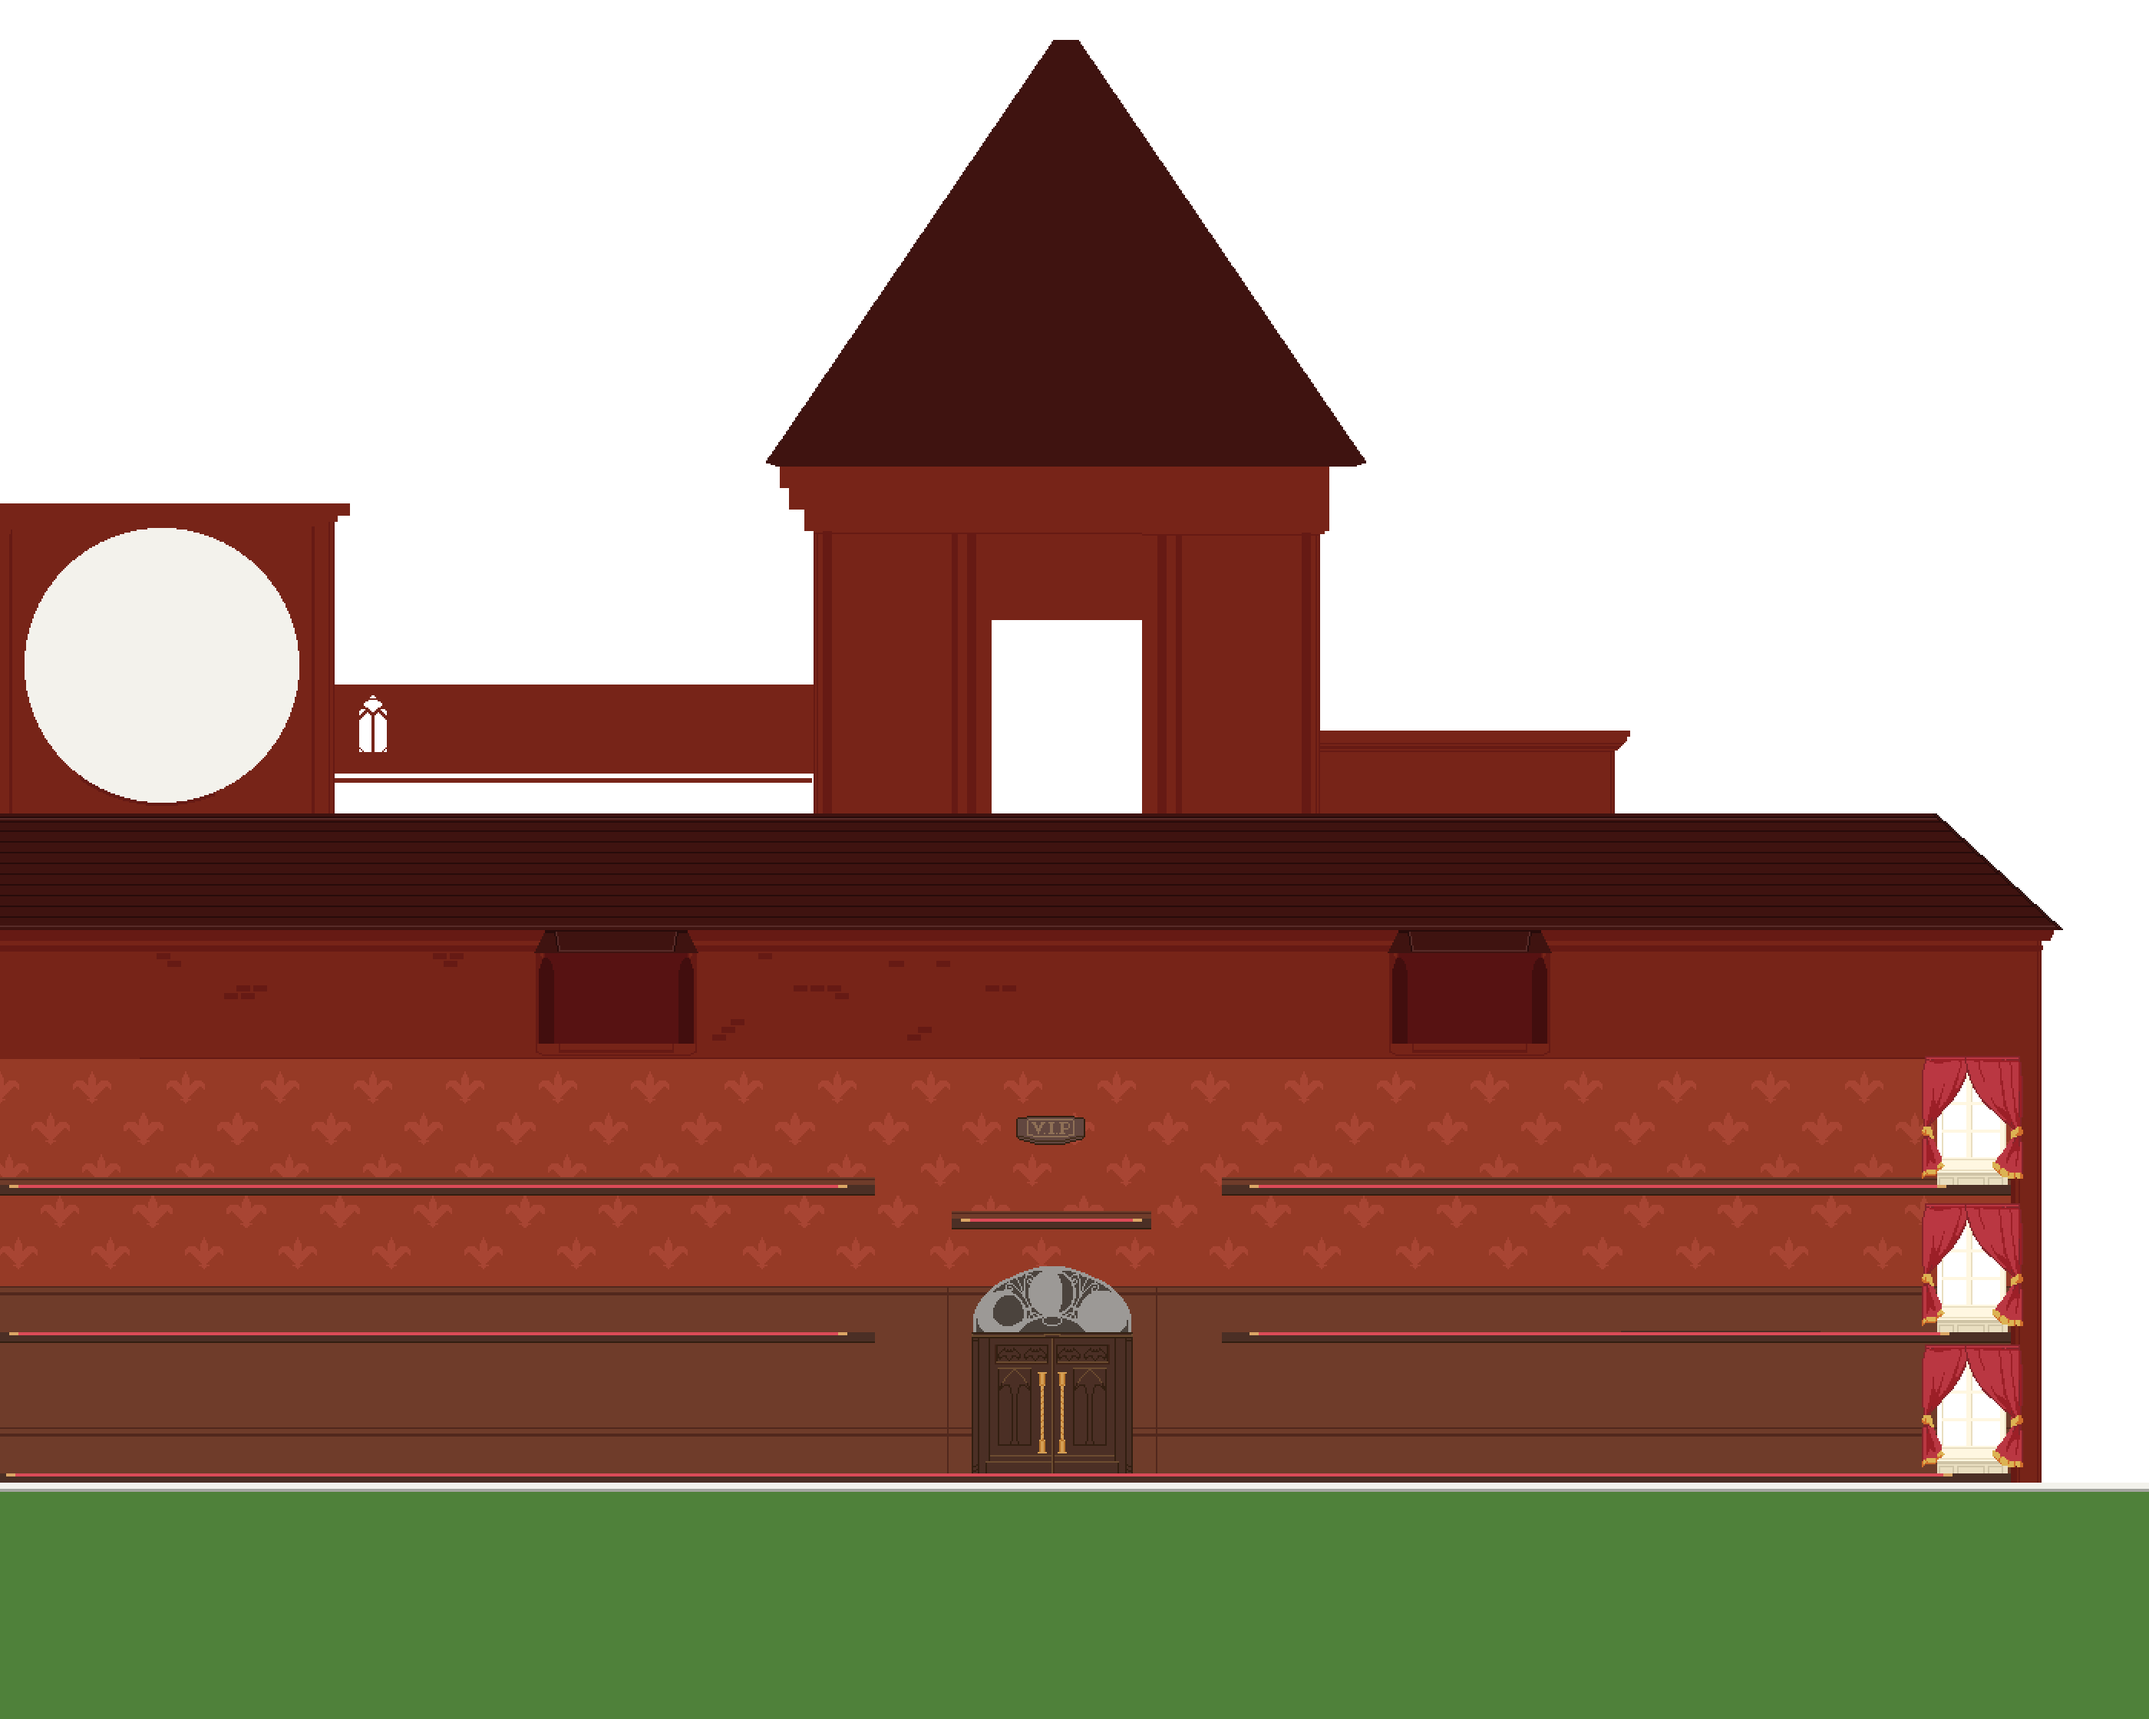
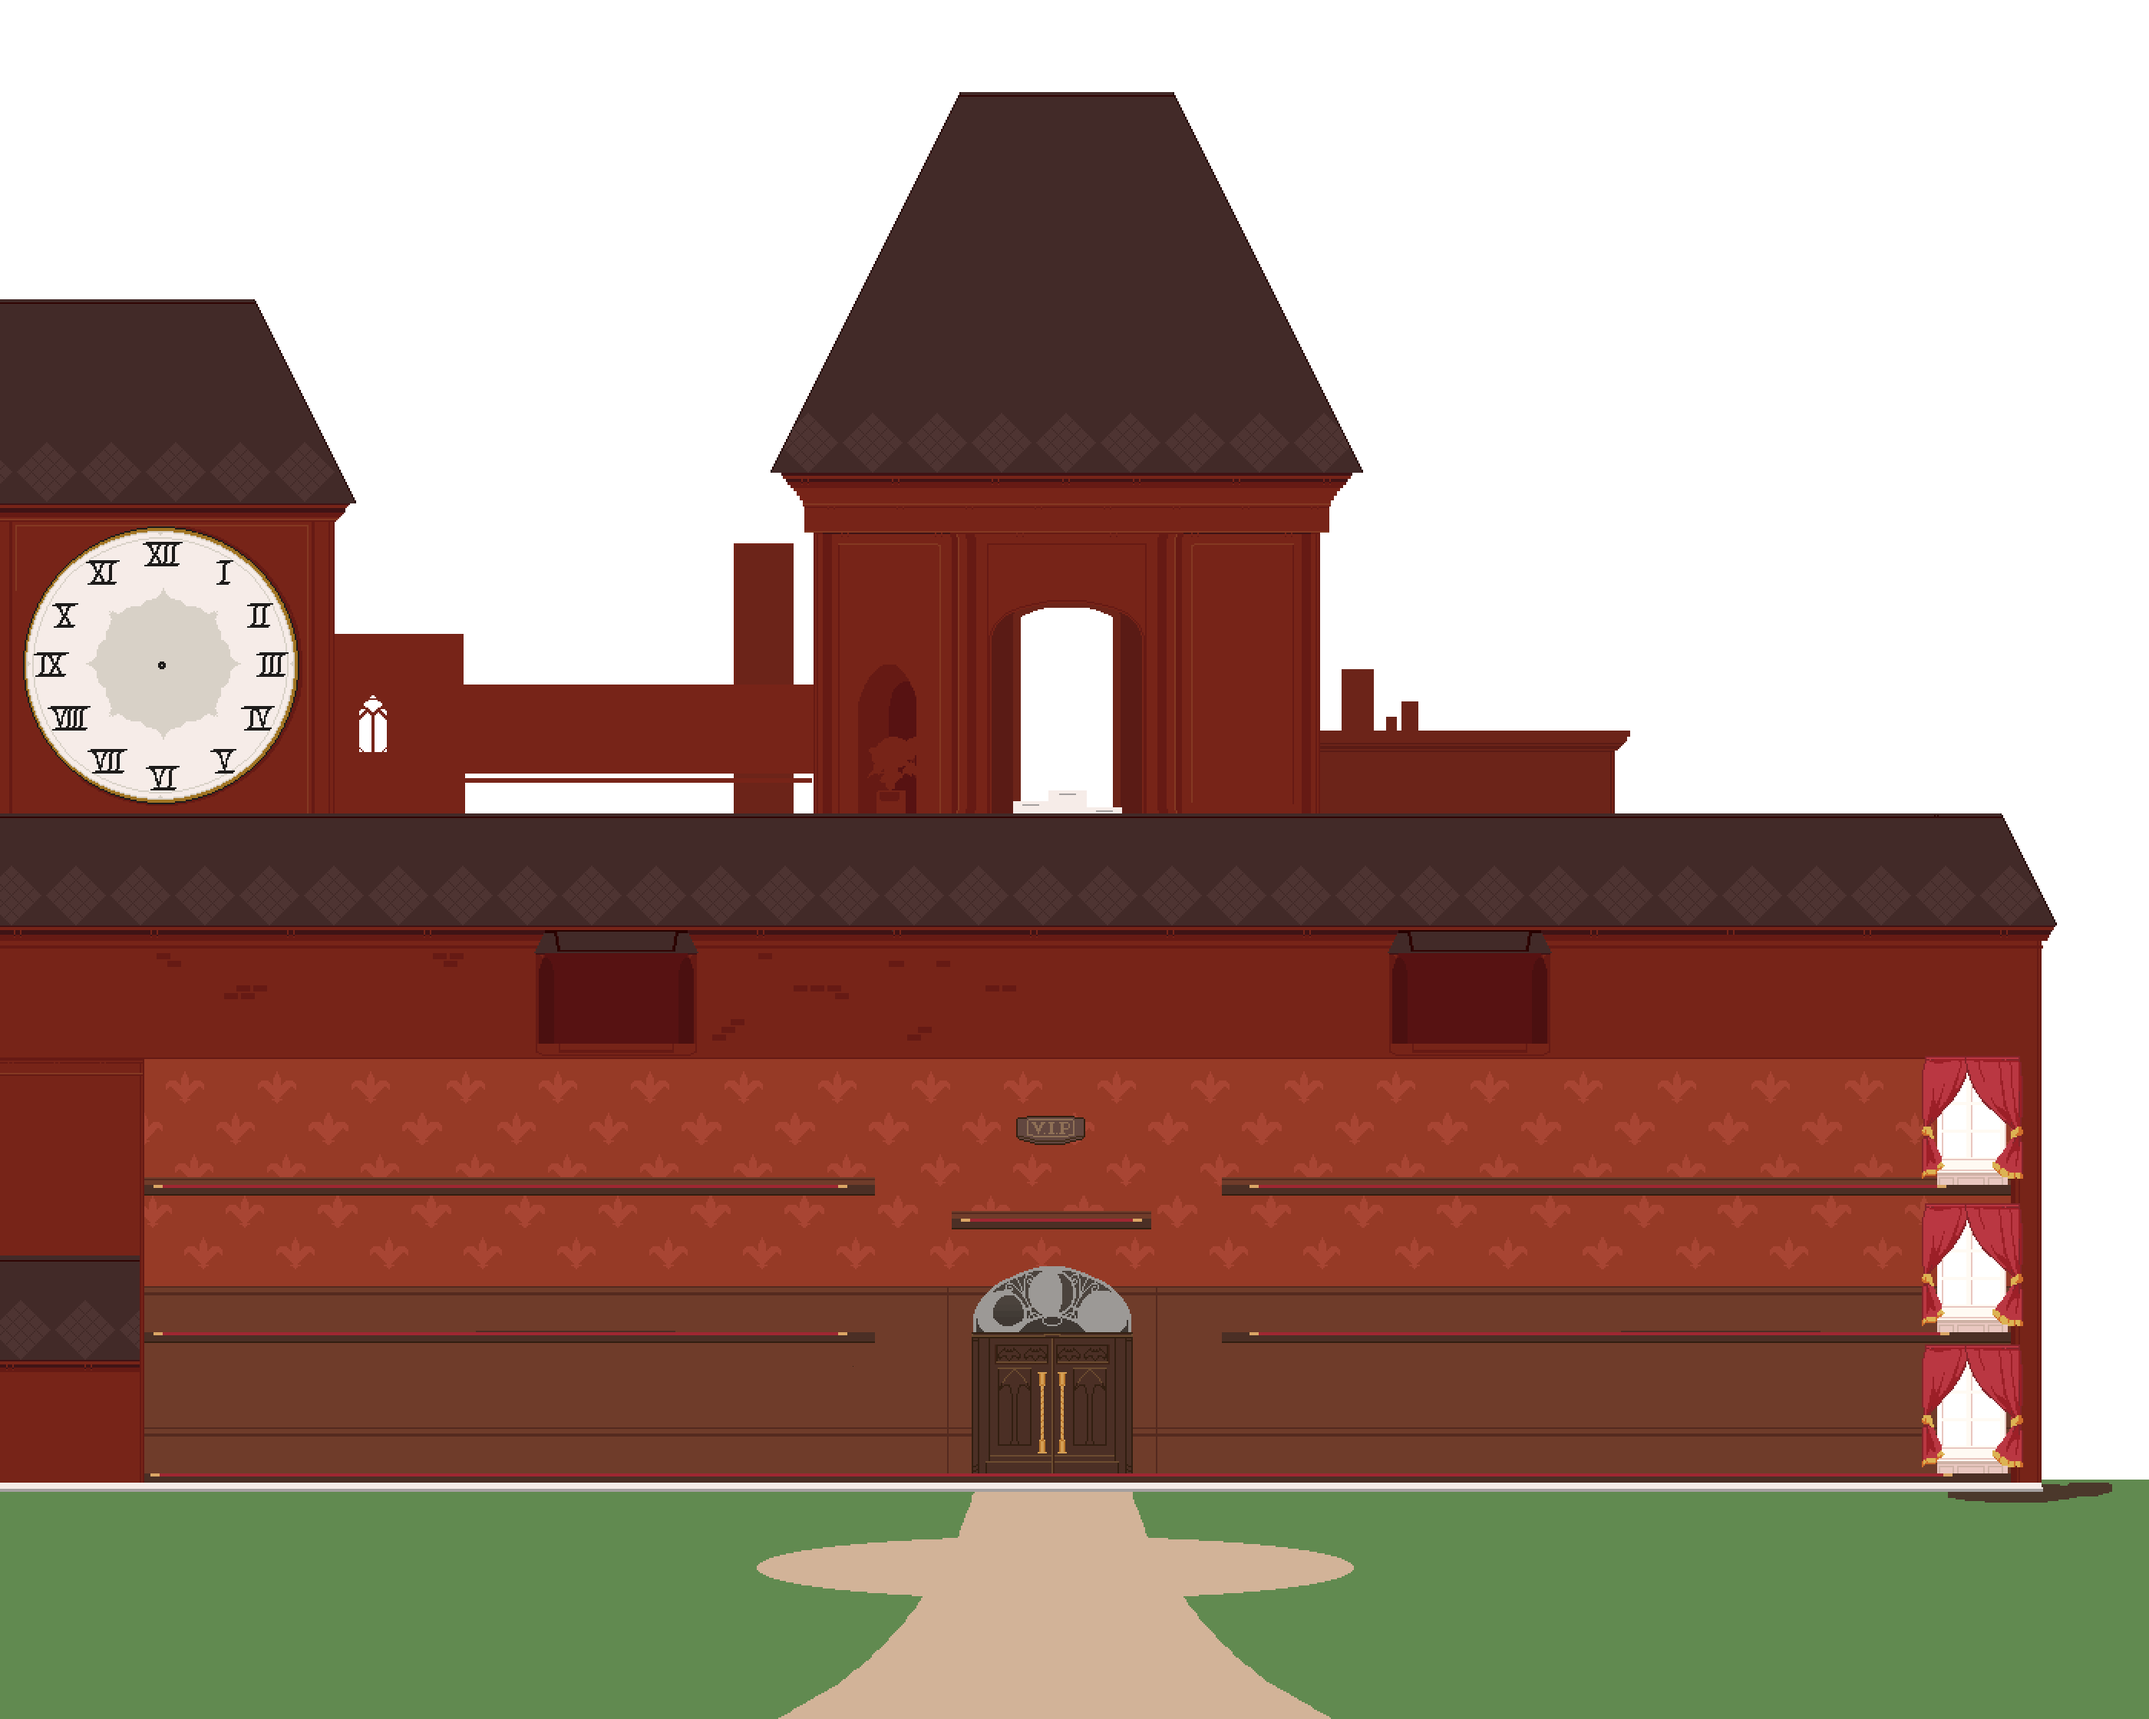
Added updated background

diff --git a/src/SokuMod/InLobbyMenu.cpp b/src/SokuMod/InLobbyMenu.cpp
@@ -2,9 +2,11 @@
 // Created by PinkySmile on 02/10/2022.
 //
 
+#define _USE_MATH_DEFINES
 #include <dinput.h>
 #include <filesystem>
 #include <random>
+#include <cstdlib>
 #include "InLobbyMenu.hpp"
 #include "LobbyData.hpp"
 #include "data.hpp"
@@ -300,8 +302,8 @@ InLobbyMenu::InLobbyMenu(LobbyMenu *menu, SokuLib::MenuConnect *parent, Connecti
 				lobbyData->elevators[0]
 			);
 		this->_background = r.bg;
-		connection.getMe()->pos.x = bg.platforms.front().pos.x + 20;
-		connection.getMe()->pos.y = bg.platforms.front().pos.y;
+		connection.getMe()->pos.x = bg.startX;
+		connection.getMe()->pos.y = bg.platforms[bg.startPlatform].pos.y;
 
 		SokuLib::Vector2i size;
 
@@ -839,7 +841,7 @@ int InLobbyMenu::onRender()
 		rect2.setFillColor(SokuLib::Color{0x00, 0x00, 0x00, 0xA0});
 
 		for (auto &layer : bg.layers) {
-			if (layer.image) {
+			if (layer.type == LobbyData::LAYERTYPE_IMAGE) {
 				SokuLib::Vector2i tsize = {
 					static_cast<int>(layer.image->getSize().x - 640),
 					static_cast<int>(layer.image->getSize().y - 480)
@@ -854,6 +856,31 @@ int InLobbyMenu::onRender()
 				translate.y = translate.y * tsize.y / bsize.y;
 				layer.image->setPosition(translate);
 				layer.image->draw();
+				continue;
+			}
+			if (layer.type == LobbyData::LAYERTYPE_CLOCK && bg.clock) {
+				auto t = std::chrono::system_clock::now();
+				std::time_t timestamp = std::chrono::system_clock::to_time_t(t);
+				auto timeInfo = std::localtime(&timestamp);
+
+				if (timeInfo) {
+					if (bg.clock->hour) {
+						bg.clock->hour->setPosition(bg.clock->center - bg.clock->hour->getSize() / 2 + this->_translate);
+						bg.clock->hour->setRotation(timeInfo->tm_hour * M_PI * 2 / 12);
+						bg.clock->hour->draw();
+					}
+					if (bg.clock->minute) {
+						bg.clock->minute->setPosition(bg.clock->center - bg.clock->minute->getSize() / 2 + this->_translate);
+						bg.clock->minute->setRotation(timeInfo->tm_min * M_PI * 2 / 60);
+						bg.clock->minute->draw();
+					}
+					if (bg.clock->second) {
+						bg.clock->second->setPosition(bg.clock->center - bg.clock->second->getSize() / 2 + this->_translate);
+						bg.clock->second->setRotation(timeInfo->tm_sec * M_PI * 2 / 60);
+						bg.clock->second->draw();
+					}
+				} else
+					puts("Error");
 				continue;
 			}
 			for (auto &machine : this->_machines) {

diff --git a/src/SokuMod/LobbyData.cpp b/src/SokuMod/LobbyData.cpp
@@ -336,6 +336,40 @@ void LobbyData::_loadBackgrounds()
 		bg.id = this->backgrounds.size() - 1;
 		bg.size.x = val["width"];
 		bg.size.y = val["height"];
+		bg.startX = val["spawn"]["x"];
+		bg.startPlatform = val["spawn"]["platform"];
+		if (val.contains("clock")) {
+			ClockLayer clock{nullptr, nullptr, nullptr, {0, 0}};
+			auto &cl = val["clock"];
+
+			clock.center.x = cl["center"]["x"];
+			clock.center.y = cl["center"]["y"];
+			if (!cl["hour"].is_null()) {
+				bg.images.emplace_back();
+				clock.hour = &bg.images.back();
+				clock.hour->texture.loadFromFile((folder / cl["hour"].get<std::string>()).string().c_str());
+				clock.hour->setSize(clock.hour->texture.getSize());
+				clock.hour->rect.width = clock.hour->getSize().x;
+				clock.hour->rect.height = clock.hour->getSize().y;
+			}
+			if (!cl["minute"].is_null()) {
+				bg.images.emplace_back();
+				clock.minute = &bg.images.back();
+				clock.minute->texture.loadFromFile((folder / cl["minute"].get<std::string>()).string().c_str());
+				clock.minute->setSize(clock.minute->texture.getSize());
+				clock.minute->rect.width = clock.minute->getSize().x;
+				clock.minute->rect.height = clock.minute->getSize().y;
+			}
+			if (!cl["second"].is_null()) {
+				bg.images.emplace_back();
+				clock.second = &bg.images.back();
+				clock.second->texture.loadFromFile((folder / cl["second"].get<std::string>()).string().c_str());
+				clock.second->setSize(clock.second->texture.getSize());
+				clock.second->rect.width = clock.second->getSize().x;
+				clock.second->rect.height = clock.second->getSize().y;
+			}
+			bg.clock = clock;
+		}
 		bg.layers.reserve(val["layers"].size());
 		for (auto &layer_j : val["layers"]) {
 			bg.layers.emplace_back();
@@ -345,9 +379,16 @@ void LobbyData::_loadBackgrounds()
 
 			if (img == "system") {
 				layer.image = nullptr;
+				layer.type = LAYERTYPE_SYSTEM;
+				continue;
+			}
+			if (img == "clock") {
+				layer.image = nullptr;
+				layer.type = LAYERTYPE_CLOCK;
 				continue;
 			}
 			bg.images.emplace_back();
+			layer.type = LAYERTYPE_IMAGE;
 			layer.image = &bg.images.back();
 			layer.image->texture.loadFromFile((folder / img).string().c_str());
 			layer.image->setSize(layer.image->texture.getSize());

diff --git a/src/SokuMod/LobbyData.hpp b/src/SokuMod/LobbyData.hpp
@@ -112,9 +112,6 @@ public:
 		SokuLib::Vector2i pos;
 		unsigned width;
 	};
-	struct Layer {
-		SokuLib::DrawUtils::Sprite *image;
-	};
 	struct ArcadePlacement {
 		SokuLib::Vector2i pos;
 		bool old;
@@ -133,6 +130,21 @@ public:
 		bool noIndicator;
 		bool hidden;
 	};
+	enum LayerType {
+		LAYERTYPE_IMAGE,
+		LAYERTYPE_SYSTEM,
+		LAYERTYPE_CLOCK,
+	};
+	struct Layer {
+		LayerType type;
+		SokuLib::DrawUtils::Sprite *image;
+	};
+	struct ClockLayer {
+		SokuLib::DrawUtils::Sprite *hour;
+		SokuLib::DrawUtils::Sprite *minute;
+		SokuLib::DrawUtils::Sprite *second;
+		SokuLib::Vector2i center;
+	};
 	struct Background {
 		unsigned short id = 0;
 		SokuLib::Vector2u size;
@@ -141,6 +153,9 @@ public:
 		std::vector<Platform> platforms;
 		std::vector<ArcadePlacement> arcades;
 		std::vector<ElevatorPlacement> elevators;
+		std::optional<ClockLayer> clock;
+		int startX;
+		int startPlatform;
 		Achievement *requirement = nullptr;
 
 		Background() = default;

diff --git a/src/Common/Packet.hpp b/src/Common/Packet.hpp
@@ -10,7 +10,7 @@
 #include <string>
 
 #define MOD_VERSION 9
-#define VERSION_STR "0.3.1"
+#define VERSION_STR "0.4.0"
 
 namespace Lobbies
 {
